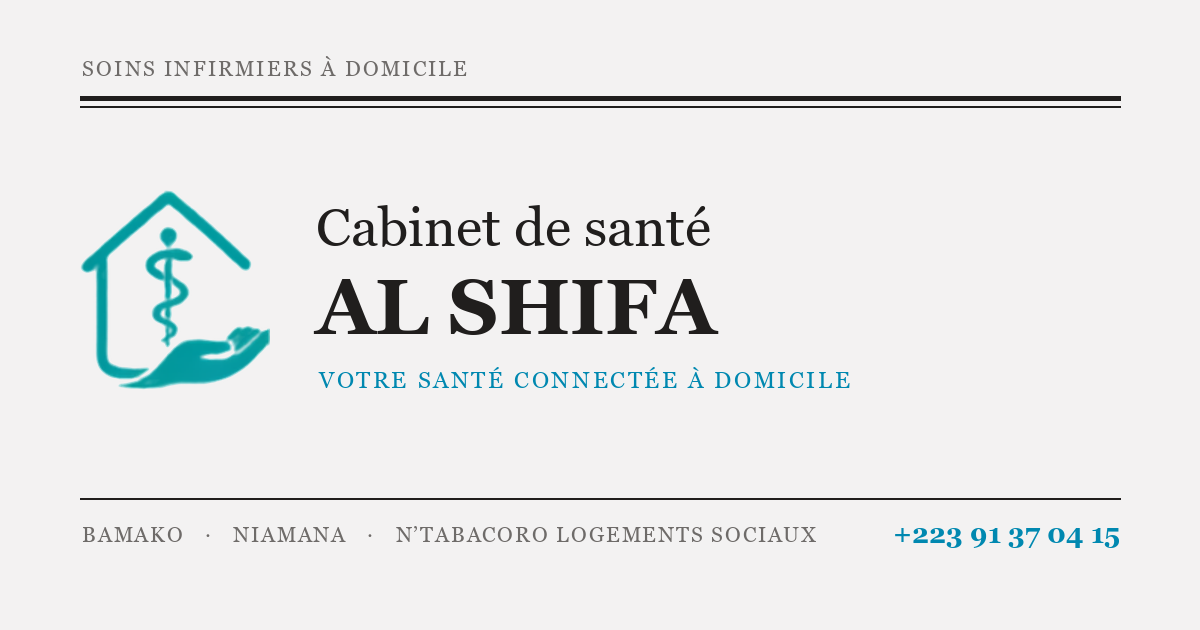
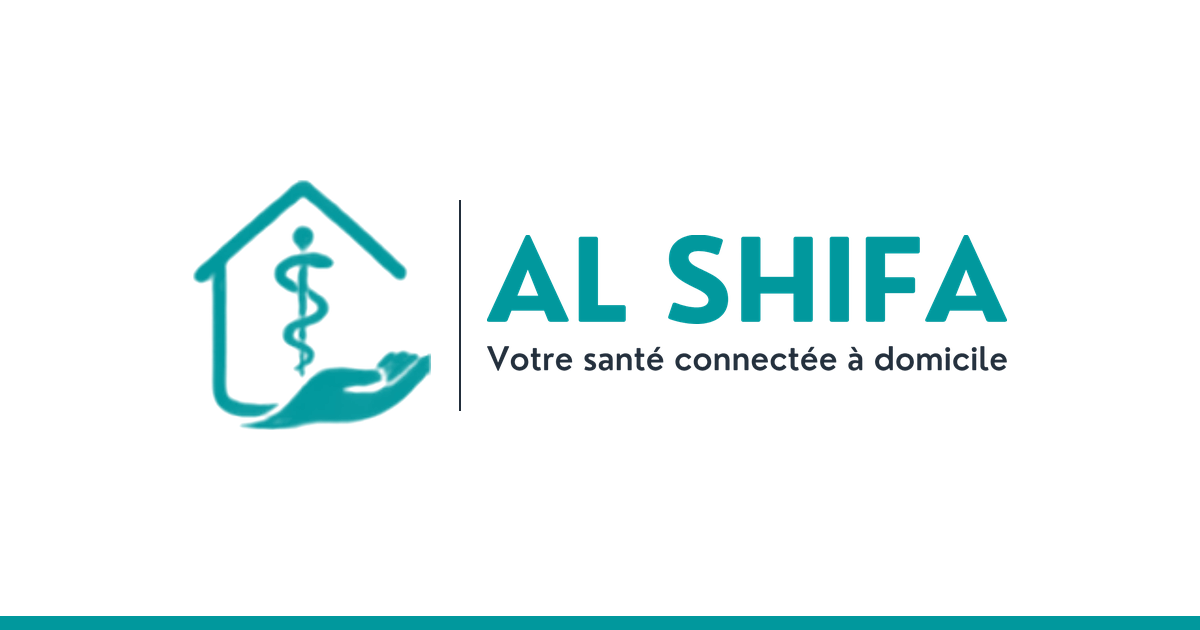
Le site aux couleurs et à la typographie de la charte
Le site reprenait un système de mise en page de journal : police à
empattements, filets noirs, angles vifs. La charte du cabinet prescrit
Montserrat, le turquoise #01989D, l'anthracite #222E3B et le gris clair
#F5F6F7 ; le site en était à des approximations, et employait un magenta
qui n'y figure pas.

- Typographie Montserrat, SemiBold pour les titres, Regular pour le texte.
- Couleurs exactes de la charte. Le magenta disparaît ; seules les erreurs
  de saisie gardent un rouge, hors charte et signalé comme tel.
- Étapes, questions fréquentes et coordonnées en cartes ; teaser de
  l'application sur un aplat turquoise clair ; appel final en turquoise
  plein. Boutons arrondis d'au moins 44 px.
- Logo net en 404 px au lieu de 121, favicon et icône Apple dans la tuile
  blanche de la charte, aperçu de partage rebâti sur la version
  horizontale.

diff --git a/styles.css b/styles.css
@@ -1,23 +1,34 @@
-/* Cabinet de santé AL SHIFA — site styles.
-   Tokens adapted from the Broadsheet design system used in the prototype. */
-@import url('https://fonts.googleapis.com/css2?family=Source+Serif+4:ital,wght@0,400;0,600;1,400&display=swap');
+/* Cabinet de santé AL SHIFA — styles du site.
+
+   Couleurs, typographie et proportions repris de la charte graphique du
+   cabinet : turquoise principal, gris anthracite, gris clair, blanc, et
+   Montserrat en SemiBold pour les titres, Regular pour le texte. */
+@import url('https://fonts.googleapis.com/css2?family=Montserrat:wght@400;500;600;700&display=swap');
 
 :root {
-  --color-bg: #f3f2f2;
-  --color-text: #201e1d;
-  --color-accent: #0088b0;
-  --color-accent-600: #1186ac;
-  --color-accent-700: #006786;
-  --color-accent-2: #d6006c;
+  /* — couleurs de la charte — */
+  --color-bg: #f5f6f7;          /* gris clair */
+  --color-text: #222e3b;        /* gris anthracite */
+  --color-accent: #01989d;      /* turquoise principal */
+  --color-accent-600: #018589;  /* survol */
+  --color-accent-700: #016c70;  /* liens et états actifs */
+  --color-surface: #ffffff;
+  --color-tint: color-mix(in srgb, var(--color-accent) 8%, #ffffff);
   --color-divider: color-mix(in srgb, var(--color-text) 16%, transparent);
+  /* Hors charte, réservé aux erreurs de saisie : le rouge est le seul signal
+     qu'un visiteur lit sans avoir à réfléchir. */
+  --color-alerte: #c0392b;
 
-  --font-heading: "Source Serif 4", system-ui, sans-serif;
-  --font-body: "Source Serif 4", system-ui, sans-serif;
+  --font-heading: "Montserrat", system-ui, sans-serif;
+  --font-body: "Montserrat", system-ui, sans-serif;
 
   --space-2: 10px;
   --space-3: 15px;
   --space-4: 20px;
-  --radius-md: 2px;
+  --radius-md: 8px;
+  --radius-lg: 18px;
+  --ombre: 0 1px 2px color-mix(in srgb, var(--color-text) 8%, transparent),
+           0 8px 24px color-mix(in srgb, var(--color-text) 6%, transparent);
 }
 
 *, *::before, *::after { box-sizing: border-box; }
@@ -37,7 +48,7 @@ body {
 h1, h2, h3, h4 { font-family: var(--font-heading); font-weight: 600; margin: 0; }
 p { margin: 0; }
 a { color: var(--color-accent-700); text-decoration: none; }
-a:hover { color: var(--color-accent-2); }
+a:hover { color: var(--color-accent); }
 :focus-visible { outline: 2px solid var(--color-accent); outline-offset: 2px; }
 
 .muted-70 { color: color-mix(in srgb, var(--color-text) 70%, transparent); }
@@ -60,11 +71,12 @@ a:hover { color: var(--color-accent-2); }
   font-family: var(--font-heading); font-weight: 600;
   font-size: 14px; line-height: 1.2; color: var(--color-text);
   background: transparent; border: 1px solid transparent;
-  padding: var(--space-2) calc(var(--space-3) * 1.2);
-  border-radius: var(--radius-md);
+  padding: 12px 20px; min-height: 44px;
+  border-radius: 999px;
+  transition: background 0.15s ease, color 0.15s ease;
 }
-.btn-primary { background: var(--color-accent); color: var(--color-bg); }
-.btn-primary:hover { background: var(--color-accent-600); color: var(--color-bg); }
+.btn-primary { background: var(--color-accent); color: var(--color-surface); }
+.btn-primary:hover { background: var(--color-accent-600); color: var(--color-surface); }
 .btn-primary:active { background: var(--color-accent-700); }
 .btn-secondary { border-color: var(--color-divider); color: var(--color-text); }
 .btn-secondary:hover { background: color-mix(in srgb, var(--color-text) 7%, transparent); color: var(--color-text); }
@@ -77,10 +89,10 @@ a:hover { color: var(--color-accent-2); }
 /* — header — */
 .site-header {
   position: sticky; top: 0; z-index: 20;
-  background: var(--color-bg);
+  background: var(--color-surface);
   display: flex; align-items: center; gap: 24px;
   padding: 14px clamp(20px, 5vw, 72px);
-  border-bottom: 1px solid var(--color-text);
+  border-bottom: 1px solid var(--color-divider);
 }
 .brand { display: flex; align-items: center; gap: 12px; }
 .brand-logo { height: 42px; width: auto; display: block; flex: none; }
@@ -89,7 +101,7 @@ a:hover { color: var(--color-accent-2); }
 .brand-tagline { font-size: 11px; letter-spacing: 0.14em; text-transform: uppercase; margin-top: 5px; color: var(--color-accent-700); }
 .site-nav { display: flex; gap: 22px; margin-left: auto; font-size: 14.5px; }
 .site-nav a { color: var(--color-text); }
-.site-nav a[aria-current="page"] { color: var(--color-accent-2); }
+.site-nav a[aria-current="page"] { color: var(--color-accent); }
 .btn-whatsapp { margin-left: 16px; white-space: nowrap; }
 
 /* — hero / split sections — */
@@ -128,10 +140,10 @@ a:hover { color: var(--color-accent-2); }
 /* — meta strip (dateline rule) — */
 .meta-strip { padding: clamp(28px, 4vw, 48px) 0; }
 .meta-strip .rule-thick {
-  height: 5px; border: 0; margin: 0;
-  border-top: 2px solid var(--color-text); border-bottom: 1px solid var(--color-text);
+  height: 3px; border: 0; margin: 0;
+  background: var(--color-accent); border-radius: 2px;
 }
-.meta-strip .rule-thin { height: 0; border: 0; border-top: 1px solid var(--color-text); margin: 0; }
+.meta-strip .rule-thin { height: 0; border: 0; border-top: 1px solid var(--color-divider); margin: 0; }
 .meta-strip-row {
   display: flex; flex-wrap: wrap; justify-content: space-between; gap: 12px 28px;
   padding: 14px 0; font-size: 12.5px; letter-spacing: 0.08em; text-transform: uppercase;
@@ -144,10 +156,17 @@ a:hover { color: var(--color-accent-2); }
 .cols-4 { grid-template-columns: repeat(4, 1fr); }
 
 .steps { padding: clamp(28px, 4vw, 48px) 0 clamp(44px, 6vw, 80px); }
+.steps .cols { gap: 20px clamp(20px, 2.5vw, 32px); }
+.step {
+  background: var(--color-surface); border-radius: var(--radius-lg);
+  padding: clamp(22px, 2.4vw, 30px); box-shadow: var(--ombre);
+}
 .step-num {
-  display: block; font-family: var(--font-heading); font-weight: 600;
-  font-size: 34px; line-height: 1; letter-spacing: -0.03em;
-  color: var(--color-accent-700); margin-bottom: 14px;
+  display: inline-flex; align-items: center; justify-content: center;
+  width: 44px; height: 44px; border-radius: 50%;
+  background: var(--color-tint); color: var(--color-accent-700);
+  font-family: var(--font-heading); font-weight: 600;
+  font-size: 19px; line-height: 1; margin-bottom: 16px;
 }
 .step h3 { font-size: 20px; line-height: 1.3; }
 .step p { font-size: 15.5px; line-height: 1.7; margin: 10px 0 0; }
@@ -177,8 +196,12 @@ a:hover { color: var(--color-accent-2); }
 .soins-full-cta { margin-top: 56px; }
 
 /* — app teaser — */
-.app-teaser { padding: 0 0 clamp(52px, 7vw, 96px); }
-.app-teaser .eyebrow { color: var(--color-accent-2); margin-bottom: 18px; }
+.app-teaser {
+  background: var(--color-tint); border-radius: var(--radius-lg);
+  padding: clamp(28px, 4vw, 52px);
+  margin-bottom: clamp(52px, 7vw, 96px);
+}
+.app-teaser .eyebrow { color: var(--color-accent-700); margin-bottom: 18px; }
 .app-teaser h2 { font-size: clamp(28px, 3.2vw, 40px); line-height: 1.2; letter-spacing: -0.02em; max-width: 18ch; }
 .app-teaser > div > p.lede { font-size: 16.5px; line-height: 1.75; max-width: 50ch; margin: 22px 0 0; }
 .app-steps { display: grid; gap: 14px; margin-top: 28px; max-width: 44ch; }
@@ -188,10 +211,10 @@ a:hover { color: var(--color-accent-2); }
 
 /* — FAQ — */
 .faq { padding: 0 0 clamp(44px, 6vw, 80px); }
-.faq-list { display: grid; gap: 0; max-width: 78ch; }
+.faq-list { display: grid; gap: 10px; max-width: 78ch; }
 .faq-item {
-  border-top: 1px solid color-mix(in srgb, var(--color-text) 22%, transparent);
-  padding: 16px 0;
+  background: var(--color-surface); border-radius: var(--radius-md);
+  padding: 18px clamp(18px, 2vw, 24px);
 }
 .faq-item summary {
   cursor: pointer; list-style: none;
@@ -201,15 +224,29 @@ a:hover { color: var(--color-accent-2); }
 .faq-item p { font-size: 15.5px; line-height: 1.75; margin: 12px 0 0; max-width: 60ch; }
 
 /* — final CTA — */
-.cta-final { padding: 0 0 clamp(52px, 7vw, 96px); }
+.cta-final {
+  background: var(--color-accent); color: var(--color-surface);
+  border-radius: var(--radius-lg); padding: clamp(30px, 4vw, 56px);
+  margin-bottom: clamp(52px, 7vw, 96px);
+}
+/* Sur l'aplat turquoise, les gris atténués du texte courant ne passent plus. */
+.cta-final .muted-70, .cta-final .muted-72,
+.cta-final .muted-78, .cta-final .muted-80 { color: color-mix(in srgb, var(--color-surface) 88%, transparent); }
+.cta-final .btn-ghost { color: var(--color-surface); }
+.cta-final .btn-ghost:hover { background: color-mix(in srgb, var(--color-surface) 15%, transparent); color: var(--color-surface); }
 .cta-final h3 { font-size: 28px; line-height: 1.25; letter-spacing: -0.015em; }
 .cta-final p { font-size: 16px; line-height: 1.7; margin: 16px 0 0; max-width: 56ch; }
+.cta-final .btn-primary { background: var(--color-surface); color: var(--color-accent-700); }
+.cta-final .btn-primary:hover { background: color-mix(in srgb, var(--color-surface) 88%, var(--color-accent)); color: var(--color-accent-700); }
+.cta-final .btn-secondary { border-color: color-mix(in srgb, var(--color-surface) 55%, transparent); color: var(--color-surface); }
+.cta-final .btn-secondary:hover { background: color-mix(in srgb, var(--color-surface) 15%, transparent); color: var(--color-surface); }
 .cta-final .cta-row { margin-top: 26px; }
 
 /* — équipe page — */
 .equipe-copy blockquote {
-  margin: 32px 0 0; font-family: var(--font-heading); font-style: italic; font-weight: 400;
-  font-size: clamp(22px, 2.4vw, 30px); line-height: 1.35; letter-spacing: -0.01em; max-width: 26ch;
+  margin: 32px 0 0; padding-left: 20px; border-left: 3px solid var(--color-accent);
+  font-family: var(--font-heading); font-weight: 500;
+  font-size: clamp(21px, 2.2vw, 28px); line-height: 1.4; letter-spacing: -0.01em; max-width: 26ch;
 }
 .equipe-copy p.body { font-size: 16px; line-height: 1.75; max-width: 52ch; margin: 24px 0 0; }
 .equipe-copy p.body:first-of-type { margin-top: 36px; }
@@ -217,6 +254,10 @@ a:hover { color: var(--color-accent-2); }
 /* — contact page — */
 .contact-hero { padding: clamp(40px, 6vw, 80px) 0 clamp(20px, 3vw, 36px); }
 .contact-details { padding: clamp(28px, 4vw, 48px) 0 clamp(52px, 7vw, 96px); }
+.contact-details .cols > div {
+  background: var(--color-surface); border-radius: var(--radius-lg);
+  padding: clamp(20px, 2.2vw, 28px); box-shadow: var(--ombre);
+}
 .contact-details h2 { font-size: 21px; line-height: 1.3; }
 .contact-details p { font-size: 16px; line-height: 1.7; margin: 14px 0 0; }
 .contact-note { font-size: 15.5px; line-height: 1.7; margin: 44px 0 0; max-width: 52ch; }
@@ -233,6 +274,8 @@ a:hover { color: var(--color-accent-2); }
   display: grid; grid-template-columns: repeat(2, 1fr);
   gap: var(--space-4) clamp(20px, 3vw, 40px);
   margin-top: 28px; max-width: 760px;
+  background: var(--color-surface); border-radius: var(--radius-lg);
+  padding: clamp(22px, 2.6vw, 32px); box-shadow: var(--ombre);
 }
 .field { display: grid; gap: 7px; }
 .field-full { grid-column: 1 / -1; }
@@ -253,10 +296,13 @@ a:hover { color: var(--color-accent-2); }
 .field-piege { position: absolute; left: -9999px; width: 1px; height: 1px; overflow: hidden; }
 .form-actions { display: flex; align-items: center; gap: 16px; flex-wrap: wrap; margin-top: 4px; }
 .form-statut { font-size: 14.5px; line-height: 1.6; margin: 0; }
-.form-statut-erreur { color: var(--color-accent-2); }
+.form-statut-erreur { color: var(--color-alerte); }
 
 /* — footer — */
-.site-footer { padding: 36px clamp(20px, 5vw, 72px) 52px; border-top: 1px solid color-mix(in srgb, var(--color-text) 25%, transparent); }
+.site-footer {
+  background: var(--color-surface); margin-top: clamp(28px, 4vw, 48px);
+  padding: 44px clamp(20px, 5vw, 72px) 52px; border-top: 3px solid var(--color-accent);
+}
 .footer-brand { font-family: var(--font-heading); font-weight: 600; font-size: 17px; line-height: 1.3; }
 .footer-tagline { font-size: 14px; line-height: 1.7; margin: 12px 0 0; max-width: 30ch; }
 .footer-heading { display: block; font-size: 12px; letter-spacing: 0.08em; text-transform: uppercase; color: color-mix(in srgb, var(--color-text) 70%, transparent); }
@@ -268,8 +314,19 @@ a:hover { color: var(--color-accent-2); }
   .split { grid-template-columns: 1fr; }
   .cols-3, .cols-4, .soins-full .cols { grid-template-columns: 1fr; }
   .contact-form form { grid-template-columns: 1fr; }
-  .site-header { flex-wrap: wrap; gap: 4px 16px; }
+  .site-header { flex-wrap: wrap; gap: 4px 12px; }
   .site-nav { order: 3; width: 100%; margin-left: 0; gap: 18px; overflow-x: auto; }
   .site-nav a { display: inline-block; padding: 10px 0; min-height: 24px; }
   .btn-whatsapp { margin-left: auto; }
+
+  /* Montserrat est plus large que la police d'origine : sans ces retouches,
+     la marque et le bouton WhatsApp ne tiennent pas sur une ligne de
+     téléphone et poussent toute la page vers la droite. */
+  .brand { gap: 9px; min-width: 0; }
+  .brand-logo { height: 34px; }
+  .brand-name { font-size: 16px; }
+  /* La signature est la ligne la plus longue de l'en-tête : réduite, elle tient
+     sous le nom sans imposer sa largeur au reste de la page. */
+  .brand-tagline { font-size: 9px; letter-spacing: 0.08em; margin-top: 4px; }
+  .btn { padding: 10px 16px; font-size: 13.5px; }
 }

diff --git a/index.html b/index.html
@@ -6,10 +6,11 @@
 <title>Cabinet de santé AL SHIFA — Soins infirmiers à domicile à Bamako</title>
 <meta name="description" content="Le cabinet de santé Al Shifa se déplace chez vous à Bamako, à Niamana et à N'Tabacoro logements sociaux : injections, pansements, suivi du diabète, accompagnement des personnes âgées.">
 <link rel="icon" href="favicon.png" type="image/png">
+<link rel="apple-touch-icon" href="apple-touch-icon.png">
 <link rel="stylesheet" href="styles.css">
 
 <link rel="canonical" href="https://aminatacoul80-arch.github.io/cabinet-al-shifa/">
-<meta name="theme-color" content="#0088b0">
+<meta name="theme-color" content="#01989d">
 
 <meta property="og:type" content="website">
 <meta property="og:site_name" content="Cabinet de santé AL SHIFA">
@@ -69,7 +70,7 @@
 
 <header class="site-header">
   <div class="brand">
-      <img class="brand-logo" src="logo.png" alt="" width="121" height="128">
+      <img class="brand-logo" src="logo.png" alt="" width="404" height="424">
       <span class="brand-text">
         <span class="brand-name">Cabinet de santé AL SHIFA</span>
         <span class="brand-tagline">VOTRE SANTÉ CONNECTÉE À DOMICILE</span>

diff --git a/nos-soins.html b/nos-soins.html
@@ -6,10 +6,11 @@
 <title>Nos soins — Cabinet de santé AL SHIFA</title>
 <meta name="description" content="Tous les soins du cabinet Al Shifa, réalisés au domicile du patient à Bamako, à Niamana et à N'Tabacoro logements sociaux : injections, pansements, suivi du diabète, garde-malade, kinésithérapie...">
 <link rel="icon" href="favicon.png" type="image/png">
+<link rel="apple-touch-icon" href="apple-touch-icon.png">
 <link rel="stylesheet" href="styles.css">
 
 <link rel="canonical" href="https://aminatacoul80-arch.github.io/cabinet-al-shifa/nos-soins.html">
-<meta name="theme-color" content="#0088b0">
+<meta name="theme-color" content="#01989d">
 
 <meta property="og:type" content="website">
 <meta property="og:site_name" content="Cabinet de santé AL SHIFA">
@@ -31,7 +32,7 @@
 
 <header class="site-header">
   <div class="brand">
-      <img class="brand-logo" src="logo.png" alt="" width="121" height="128">
+      <img class="brand-logo" src="logo.png" alt="" width="404" height="424">
       <span class="brand-text">
         <span class="brand-name">Cabinet de santé AL SHIFA</span>
         <span class="brand-tagline">VOTRE SANTÉ CONNECTÉE À DOMICILE</span>

diff --git a/equipe.html b/equipe.html
@@ -6,10 +6,11 @@
 <title>L’équipe — Cabinet de santé AL SHIFA</title>
 <meta name="description" content="Des agents de santé expérimentés, dévoués pour vous servir. L'équipe du cabinet Al Shifa réalise les soins à domicile au quotidien, à Bamako.">
 <link rel="icon" href="favicon.png" type="image/png">
+<link rel="apple-touch-icon" href="apple-touch-icon.png">
 <link rel="stylesheet" href="styles.css">
 
 <link rel="canonical" href="https://aminatacoul80-arch.github.io/cabinet-al-shifa/equipe.html">
-<meta name="theme-color" content="#0088b0">
+<meta name="theme-color" content="#01989d">
 
 <meta property="og:type" content="website">
 <meta property="og:site_name" content="Cabinet de santé AL SHIFA">
@@ -31,7 +32,7 @@
 
 <header class="site-header">
   <div class="brand">
-      <img class="brand-logo" src="logo.png" alt="" width="121" height="128">
+      <img class="brand-logo" src="logo.png" alt="" width="404" height="424">
       <span class="brand-text">
         <span class="brand-name">Cabinet de santé AL SHIFA</span>
         <span class="brand-tagline">VOTRE SANTÉ CONNECTÉE À DOMICILE</span>

diff --git a/contact.html b/contact.html
@@ -6,10 +6,11 @@
 <title>Nous joindre — Cabinet de santé AL SHIFA</title>
 <meta name="description" content="Contactez le cabinet de santé Al Shifa par WhatsApp ou par téléphone. Soins à domicile à Niamana et à N'Tabacoro logements sociaux, Bamako.">
 <link rel="icon" href="favicon.png" type="image/png">
+<link rel="apple-touch-icon" href="apple-touch-icon.png">
 <link rel="stylesheet" href="styles.css">
 
 <link rel="canonical" href="https://aminatacoul80-arch.github.io/cabinet-al-shifa/contact.html">
-<meta name="theme-color" content="#0088b0">
+<meta name="theme-color" content="#01989d">
 
 <meta property="og:type" content="website">
 <meta property="og:site_name" content="Cabinet de santé AL SHIFA">
@@ -31,7 +32,7 @@
 
 <header class="site-header">
   <div class="brand">
-      <img class="brand-logo" src="logo.png" alt="" width="121" height="128">
+      <img class="brand-logo" src="logo.png" alt="" width="404" height="424">
       <span class="brand-text">
         <span class="brand-name">Cabinet de santé AL SHIFA</span>
         <span class="brand-tagline">VOTRE SANTÉ CONNECTÉE À DOMICILE</span>
